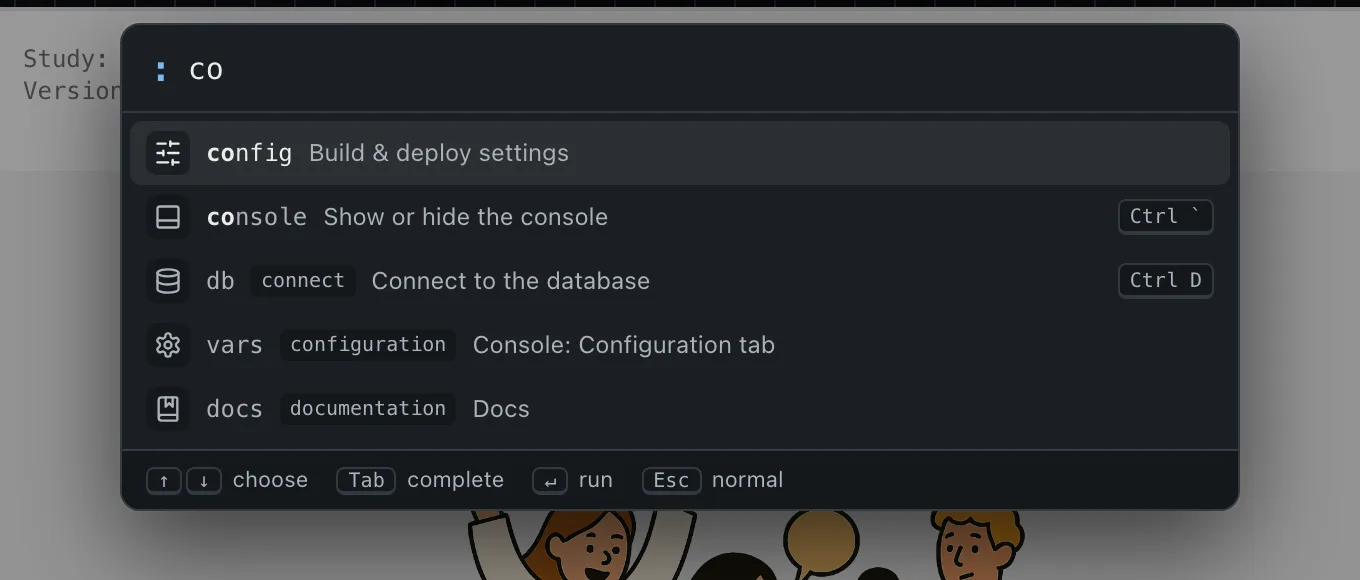
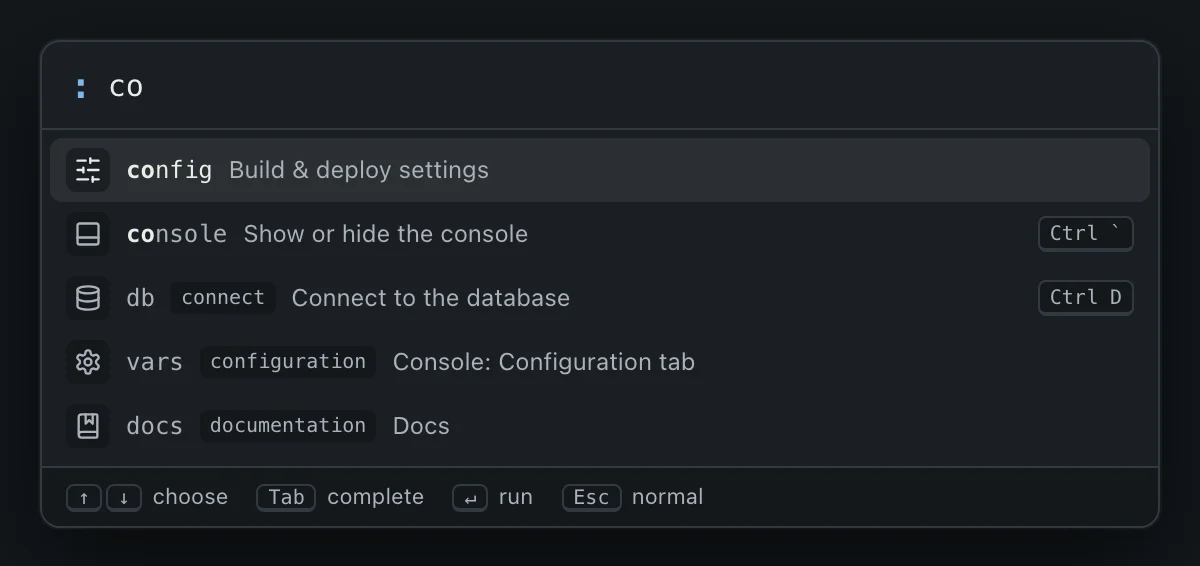
docs: palette screenshots cropped to the palette

diff --git a/docs/coding/palette.md b/docs/coding/palette.md
@@ -16,7 +16,7 @@ a command: `:d` is enough for `dev`, and letters in order with gaps also match
 (`:cnsl` finds `console`). The best match is chosen as you type, so most
 commands are `:`, a letter or two, and `Enter`.
 
-![The command palette open over developer mode: a box near the top with a : prompt, the recent commands, then the commands by group, each with an icon, a short description and its keyboard shortcut.](/images/command-palette.webp)
+![The command palette with nothing typed: a : prompt, the recent commands, then the commands by group, each with an icon, a short description and its keyboard shortcut.](/images/command-palette.webp)
 
 ::: tip Only on your computer
 The command palette is part of the local dev server only. It isn't in a build,
